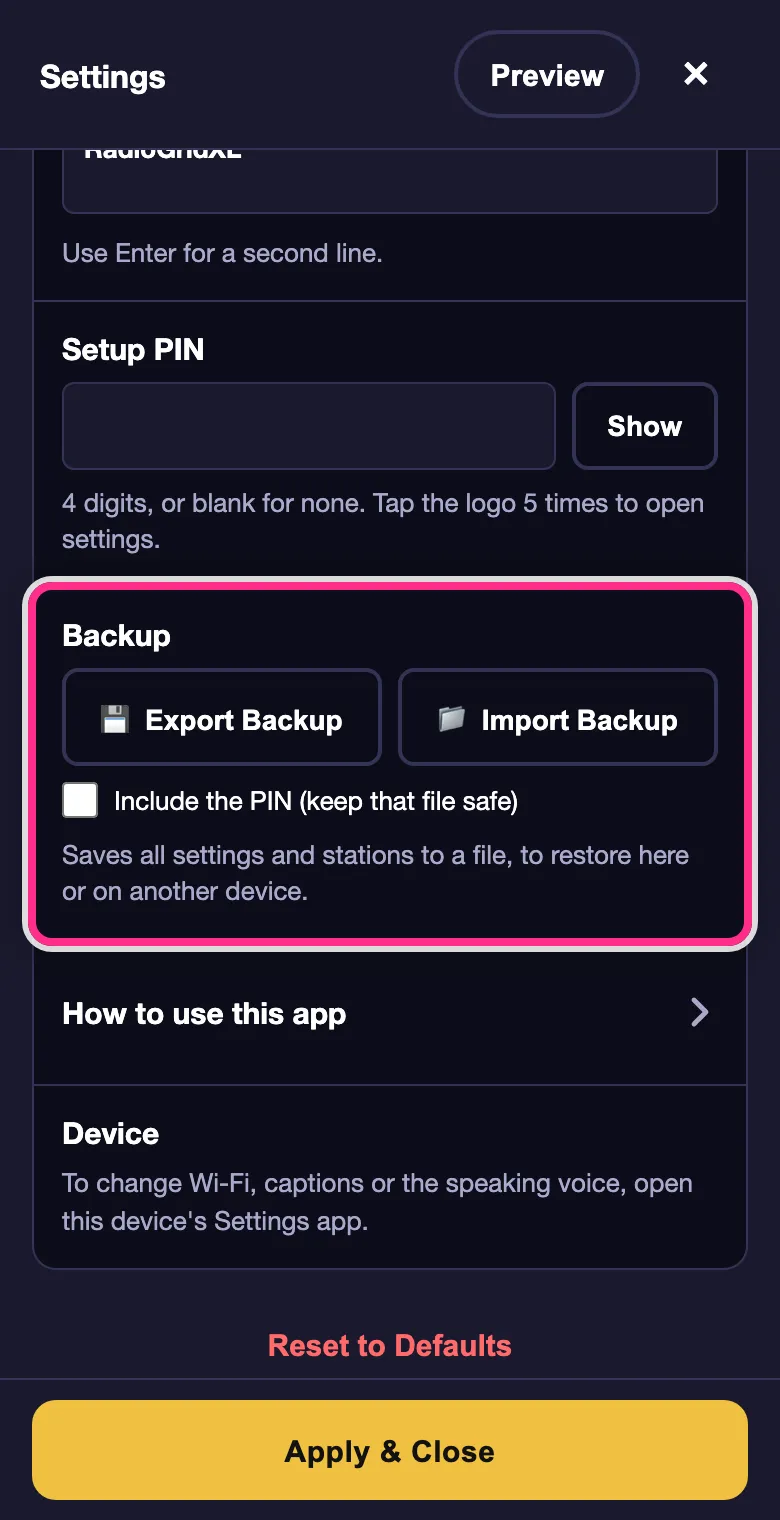
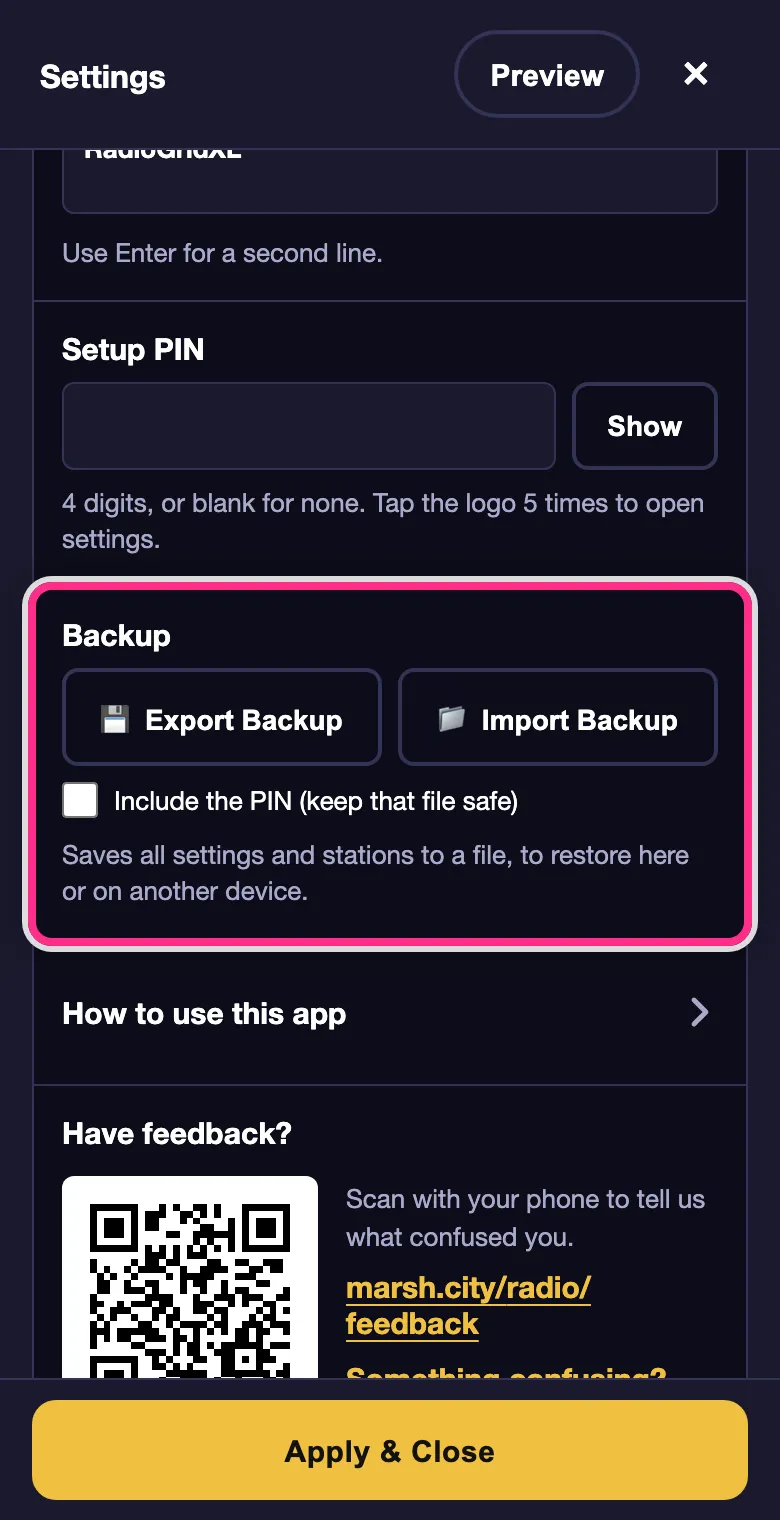
radio: sync RadioGridXL v7.18.0 (222d550)

Changed region(s): [[0.0615, 0.7421, 0.8923, 0.9276], [0.6769, 0.8967, 0.8615, 0.9276]]

diff --git a/public/radio/index.html b/public/radio/index.html
@@ -1675,6 +1675,23 @@ html.is-desktop .overlay-body { font-size: 20px; }
   cursor: pointer;
 }
 .s-link-row .s-icon { color: var(--settings-label); }
+
+/* Feedback card. The QR keeps its own black-on-white in every theme (fills
+   set in the SVG, no theme rule touches it): phone cameras misread
+   light-on-dark codes. */
+.feedback-row { display: flex; gap: 14px; align-items: center; flex-wrap: wrap; }
+.feedback-qr { width: 128px; height: 128px; flex-shrink: 0; border-radius: 6px; }
+.feedback-text { flex: 1 1 130px; min-width: 0; display: flex; flex-direction: column; gap: 2px; }
+.feedback-link {
+  display: flex;
+  align-items: center;
+  min-height: 44px;
+  color: var(--accent-text);
+  font-size: 15px;
+  font-weight: 700;
+  text-decoration: underline;
+  text-underline-offset: 3px;
+}
 .backup-row { display: flex; gap: 8px; margin-bottom: 8px; }
 .backup-row .device-btn { flex: 1; min-height: 48px; }
 
@@ -2925,6 +2942,21 @@ html.theme-fading, html.theme-fading * {
           <button class="s-link-row" id="help-btn" onclick="openHelp()"><span>How to use this app</span><svg class="s-icon" viewBox="0 0 18 18" aria-hidden="true"><path d="M6 3l6 6-6 6"></path></svg></button>
         </div>
 
+        <!-- Shown only when the profile turns it on (PROFILE.feedback). The code
+             opens a static page on the setter-up's own phone, since this device
+             often can't send email. The app itself sends nothing. -->
+        <div class="s-section" id="feedback-section" role="group" aria-labelledby="feedback-title" hidden>
+          <div class="s-section-title" id="feedback-title">Have feedback?</div>
+          <div class="feedback-row">
+            <!-- === FEEDBACK QR — make-feedback-qr.mjs writes this === --><svg class="feedback-qr" id="feedback-qr" viewBox="0 0 37 37" role="img" aria-label="QR code: opens marsh.city/radio/feedback on your phone" shape-rendering="crispEdges"><rect width="37" height="37" fill="#ffffff"/><path fill="#000000" d="M4 4h7v1h-7zM14 4h1v1h-1zM16 4h1v1h-1zM19 4h2v1h-2zM22 4h1v1h-1zM26 4h7v1h-7zM4 5h1v1h-1zM10 5h1v1h-1zM12 5h3v1h-3zM17 5h2v1h-2zM20 5h1v1h-1zM22 5h1v1h-1zM26 5h1v1h-1zM32 5h1v1h-1zM4 6h1v1h-1zM6 6h3v1h-3zM10 6h1v1h-1zM12 6h2v1h-2zM17 6h1v1h-1zM19 6h1v1h-1zM24 6h1v1h-1zM26 6h1v1h-1zM28 6h3v1h-3zM32 6h1v1h-1zM4 7h1v1h-1zM6 7h3v1h-3zM10 7h1v1h-1zM12 7h2v1h-2zM20 7h2v1h-2zM24 7h1v1h-1zM26 7h1v1h-1zM28 7h3v1h-3zM32 7h1v1h-1zM4 8h1v1h-1zM6 8h3v1h-3zM10 8h1v1h-1zM15 8h2v1h-2zM19 8h6v1h-6zM26 8h1v1h-1zM28 8h3v1h-3zM32 8h1v1h-1zM4 9h1v1h-1zM10 9h1v1h-1zM19 9h1v1h-1zM21 9h1v1h-1zM24 9h1v1h-1zM26 9h1v1h-1zM32 9h1v1h-1zM4 10h7v1h-7zM12 10h1v1h-1zM14 10h1v1h-1zM16 10h1v1h-1zM18 10h1v1h-1zM20 10h1v1h-1zM22 10h1v1h-1zM24 10h1v1h-1zM26 10h7v1h-7zM12 11h3v1h-3zM16 11h1v1h-1zM18 11h3v1h-3zM4 12h1v1h-1zM10 12h1v1h-1zM12 12h2v1h-2zM15 12h2v1h-2zM21 12h2v1h-2zM25 12h2v1h-2zM29 12h3v1h-3zM4 13h1v1h-1zM6 13h1v1h-1zM9 13h1v1h-1zM11 13h4v1h-4zM17 13h1v1h-1zM20 13h4v1h-4zM27 13h2v1h-2zM30 13h2v1h-2zM5 14h1v1h-1zM7 14h1v1h-1zM10 14h1v1h-1zM15 14h1v1h-1zM17 14h5v1h-5zM25 14h3v1h-3zM5 15h2v1h-2zM9 15h1v1h-1zM12 15h2v1h-2zM17 15h1v1h-1zM19 15h2v1h-2zM23 15h1v1h-1zM28 15h2v1h-2zM5 16h2v1h-2zM9 16h3v1h-3zM13 16h1v1h-1zM17 16h1v1h-1zM20 16h1v1h-1zM23 16h1v1h-1zM25 16h2v1h-2zM32 16h1v1h-1zM4 17h1v1h-1zM12 17h4v1h-4zM19 17h1v1h-1zM22 17h3v1h-3zM26 17h3v1h-3zM31 17h2v1h-2zM4 18h2v1h-2zM8 18h1v1h-1zM10 18h3v1h-3zM14 18h2v1h-2zM19 18h3v1h-3zM24 18h1v1h-1zM26 18h1v1h-1zM29 18h2v1h-2zM4 19h1v1h-1zM7 19h3v1h-3zM13 19h2v1h-2zM16 19h1v1h-1zM19 19h2v1h-2zM22 19h2v1h-2zM28 19h1v1h-1zM30 19h1v1h-1zM32 19h1v1h-1zM5 20h1v1h-1zM7 20h1v1h-1zM10 20h1v1h-1zM13 20h1v1h-1zM15 20h2v1h-2zM21 20h1v1h-1zM23 20h1v1h-1zM27 20h1v1h-1zM29 20h2v1h-2zM4 21h1v1h-1zM6 21h1v1h-1zM11 21h2v1h-2zM15 21h1v1h-1zM17 21h4v1h-4zM22 21h2v1h-2zM26 21h3v1h-3zM30 21h3v1h-3zM4 22h3v1h-3zM8 22h6v1h-6zM16 22h1v1h-1zM19 22h1v1h-1zM21 22h1v1h-1zM23 22h1v1h-1zM25 22h2v1h-2zM28 22h2v1h-2zM32 22h1v1h-1zM4 23h1v1h-1zM6 23h1v1h-1zM8 23h2v1h-2zM12 23h3v1h-3zM16 23h2v1h-2zM19 23h1v1h-1zM25 23h2v1h-2zM28 23h1v1h-1zM4 24h1v1h-1zM10 24h2v1h-2zM16 24h1v1h-1zM18 24h2v1h-2zM21 24h1v1h-1zM23 24h6v1h-6zM30 24h3v1h-3zM12 25h3v1h-3zM16 25h1v1h-1zM18 25h2v1h-2zM22 25h3v1h-3zM28 25h2v1h-2zM4 26h7v1h-7zM13 26h1v1h-1zM15 26h1v1h-1zM19 26h2v1h-2zM23 26h2v1h-2zM26 26h1v1h-1zM28 26h3v1h-3zM4 27h1v1h-1zM10 27h1v1h-1zM13 27h2v1h-2zM16 27h1v1h-1zM18 27h1v1h-1zM23 27h2v1h-2zM28 27h1v1h-1zM32 27h1v1h-1zM4 28h1v1h-1zM6 28h3v1h-3zM10 28h1v1h-1zM15 28h6v1h-6zM23 28h7v1h-7zM31 28h2v1h-2zM4 29h1v1h-1zM6 29h3v1h-3zM10 29h1v1h-1zM14 29h1v1h-1zM17 29h4v1h-4zM22 29h1v1h-1zM25 29h1v1h-1zM29 29h2v1h-2zM32 29h1v1h-1zM4 30h1v1h-1zM6 30h3v1h-3zM10 30h1v1h-1zM13 30h1v1h-1zM15 30h2v1h-2zM18 30h2v1h-2zM23 30h1v1h-1zM25 30h7v1h-7zM4 31h1v1h-1zM10 31h1v1h-1zM13 31h1v1h-1zM18 31h3v1h-3zM22 31h2v1h-2zM27 31h4v1h-4zM32 31h1v1h-1zM4 32h7v1h-7zM12 32h2v1h-2zM16 32h1v1h-1zM18 32h2v1h-2zM21 32h1v1h-1zM23 32h1v1h-1zM27 32h1v1h-1zM30 32h1v1h-1z"/></svg><!-- === END FEEDBACK QR === -->
+            <div class="feedback-text">
+              <div class="s-hint" id="feedback-hint">Scan with your phone to tell us what confused you.</div>
+              <a class="feedback-link" id="feedback-page-link" target="_blank" rel="noopener noreferrer">marsh.city/<wbr>radio/<wbr>feedback</a>
+              <a class="feedback-link" id="feedback-mail-link" href="mailto:radio@marsh.city?subject=RadioGridXL%20feedback">Something confusing? Tell us</a>
+            </div>
+          </div>
+        </div>
+
         <div class="s-section" id="device-section">
           <div class="s-section-title">Device</div>
           <div id="device-buttons">
@@ -2939,7 +2971,7 @@ html.theme-fading, html.theme-fading * {
         </div>
       </div>
       <button id="reset-btn" onclick="confirmReset()">Reset to Defaults</button>
-      <div id="settings-version" aria-hidden="true">RadioGridXL v7.17.0</div>
+      <div id="settings-version" aria-hidden="true">RadioGridXL v7.18.0</div>
     </section>
     </div>
 
@@ -3100,6 +3132,7 @@ const PROFILE = {
   "logoSvg": "<rect class=\"logo-tile logo-r0\" fill=\"#67e8f9\" x=\"28.75\" y=\"28.75\" width=\"9.5\" height=\"9.5\" rx=\"2.6\"/><rect class=\"logo-tile logo-r1\" fill=\"#58c6f8\" x=\"39.75\" y=\"28.75\" width=\"9.5\" height=\"9.5\" rx=\"2.6\"/><rect class=\"logo-tile logo-r2\" fill=\"#4aa4f7\" x=\"50.75\" y=\"28.75\" width=\"9.5\" height=\"9.5\" rx=\"2.6\"/><rect class=\"logo-tile logo-r1\" fill=\"#58c6f8\" x=\"28.75\" y=\"39.75\" width=\"9.5\" height=\"9.5\" rx=\"2.6\"/><rect class=\"logo-tile logo-r4\" fill=\"#5f85f7\" x=\"61.75\" y=\"39.75\" width=\"9.5\" height=\"9.5\" rx=\"2.6\"/><rect class=\"logo-tile logo-r2\" fill=\"#4aa4f7\" x=\"28.75\" y=\"50.75\" width=\"9.5\" height=\"9.5\" rx=\"2.6\"/><rect class=\"logo-tile logo-r3\" fill=\"#3b82f6\" x=\"39.75\" y=\"50.75\" width=\"9.5\" height=\"9.5\" rx=\"2.6\"/><rect class=\"logo-tile logo-r4\" fill=\"#5f85f7\" x=\"50.75\" y=\"50.75\" width=\"9.5\" height=\"9.5\" rx=\"2.6\"/><rect class=\"logo-tile logo-r3\" fill=\"#3b82f6\" x=\"28.75\" y=\"61.75\" width=\"9.5\" height=\"9.5\" rx=\"2.6\"/><rect class=\"logo-tile logo-r6\" fill=\"#a78bfa\" x=\"61.75\" y=\"61.75\" width=\"9.5\" height=\"9.5\" rx=\"2.6\"/><path class=\"logo-wave logo-wave-l\" fill=\"none\" stroke=\"#67e8f9\" stroke-width=\"5.5\" stroke-linecap=\"round\" d=\"M 17.92,33.66 A 36,36 0 0 0 17.92,66.34\"/><path class=\"logo-wave logo-wave-r\" fill=\"none\" stroke=\"#a78bfa\" stroke-width=\"5.5\" stroke-linecap=\"round\" d=\"M 82.08,33.66 A 36,36 0 0 1 82.08,66.34\"/><path class=\"logo-wave logo-wave-l logo-wave-out\" fill=\"none\" stroke=\"#67e8f9\" stroke-width=\"5.5\" stroke-linecap=\"round\" opacity=\"0.65\" d=\"M 8.12,28.66 A 47,47 0 0 0 8.12,71.34\"/><path class=\"logo-wave logo-wave-r logo-wave-out\" fill=\"none\" stroke=\"#a78bfa\" stroke-width=\"5.5\" stroke-linecap=\"round\" opacity=\"0.65\" d=\"M 91.88,28.66 A 47,47 0 0 1 91.88,71.34\"/>",
   "logoViewBox": "0 0 100 100",
   "helpUrl": "https://marsh.city/embed/guides/radiogridxl/",
+  "feedback": true,
   "streams": [
     {
       "id": "s1",
@@ -3268,6 +3301,7 @@ function init() {
   }
 
   document.getElementById('help-section').hidden = !helpAvailable();
+  showFeedbackCard();
   showHapticsAvailability();
 
   // The Device buttons need the APK's bridge (see openDeviceSettings). A
@@ -6569,6 +6603,29 @@ function closeHelp() {
   // even if a link inside it navigated the frame somewhere else.
   document.getElementById('help-body').innerHTML = '';
   document.getElementById('help-btn').focus();
+}
+
+/* ================================================================
+   FEEDBACK CARD
+   A QR code to a static page on marsh.city, for the setter-up's own
+   phone, plus an email link for devices that can send one. Nothing is
+   sent by the app. Hosted builds only, and off unless the profile turns
+   it on (not Lighthouse).
+   ================================================================ */
+
+var FEEDBACK_URL = 'https://marsh.city/radio/feedback/'; // what the QR holds (make-feedback-qr.mjs)
+
+function showFeedbackCard() {
+  // Hosted only, like the guide: the APK's WebView drops https and mailto
+  // links, so on file:// both would be dead taps.
+  var on = PROFILE.feedback === true && /^https?:$/.test(location.protocol);
+  document.getElementById('feedback-section').hidden = !on;
+  if (!on) return;
+  document.getElementById('feedback-page-link').href = FEEDBACK_URL;
+  var version = (document.getElementById('settings-version').textContent.match(/v\d+\.\d+\.\d+/) || [''])[0];
+  var subject = 'RadioGridXL feedback' + (version ? ' (' + version + ')' : '');
+  document.getElementById('feedback-mail-link').href =
+    'mailto:radio@marsh.city?subject=' + encodeURIComponent(subject);
 }
 
 function openStreamBrowser() {

diff --git a/public/radio/feedback/index.html b/public/radio/feedback/index.html
@@ -1,0 +1,62 @@
+<!doctype html>
+<html lang="en">
+<head>
+<meta charset="utf-8">
+<meta name="viewport" content="width=device-width, initial-scale=1">
+<!-- A static page: no scripts, no forms, nothing loaded from anywhere else. -->
+<meta http-equiv="Content-Security-Policy" content="default-src 'none'; style-src 'unsafe-inline'; base-uri 'none'; form-action 'none'">
+<meta name="referrer" content="no-referrer">
+<title>RadioGridXL feedback</title>
+<style>
+  :root {
+    --bg: #ffffff; --text: #1a1a1a; --muted: #4a4a4a;
+    --btn-bg: #1a4178; --btn-text: #ffffff; --rule: #d0d0d0;
+  }
+  @media (prefers-color-scheme: dark) {
+    :root {
+      --bg: #121418; --text: #f2f2f2; --muted: #c4c4c4;
+      --btn-bg: #8fb8ff; --btn-text: #0b1220; --rule: #3a3f48;
+    }
+  }
+  * { box-sizing: border-box; }
+  body {
+    margin: 0; background: var(--bg); color: var(--text);
+    font: 18px/1.5 system-ui, -apple-system, "Segoe UI", Roboto, sans-serif;
+  }
+  main { max-width: 34rem; margin: 0 auto; padding: 32px 16px 48px; }
+  h1 { font-size: 1.75rem; line-height: 1.2; margin: 0 0 12px; }
+  p { margin: 0 0 16px; }
+  .email {
+    display: flex; align-items: center; justify-content: center;
+    min-height: 56px; margin: 24px 0 8px; padding: 12px 20px;
+    border-radius: 12px; background: var(--btn-bg); color: var(--btn-text);
+    font-size: 1.25rem; font-weight: 700; text-decoration: none;
+  }
+  .email:focus-visible { outline: 3px solid var(--text); outline-offset: 3px; }
+  .address { text-align: center; color: var(--muted); }
+  h2 { font-size: 1.1rem; margin: 32px 0 8px; padding-top: 24px; border-top: 1px solid var(--rule); }
+  ul { margin: 0 0 16px; padding-left: 1.25rem; }
+  li { margin-bottom: 6px; }
+  .privacy { color: var(--muted); font-size: 1rem; }
+</style>
+</head>
+<body>
+<main>
+  <h1>Thanks for helping make RadioGridXL better</h1>
+  <p>Something confusing, broken or missing? Tell us what happened. A sentence is plenty.</p>
+
+  <a class="email" href="mailto:radio@marsh.city?subject=RadioGridXL%20feedback">Email us</a>
+  <p class="address">radio@marsh.city</p>
+
+  <h2>It helps if you mention</h2>
+  <ul>
+    <li>What you tapped, and what you expected to happen.</li>
+    <li>The version number, at the bottom of the radio's settings.</li>
+    <li>The device, such as "an iPad" or "a Samsung tablet".</li>
+  </ul>
+
+  <h2>Privacy</h2>
+  <p class="privacy">The radio app sends nothing about you or your listening. This page doesn't either. If you email us, your message comes to us, is read only to fix the app, is never posted publicly and is deleted once it's dealt with.</p>
+</main>
+</body>
+</html>

diff --git a/public/radio/sw.js b/public/radio/sw.js
@@ -5,7 +5,7 @@
    it sat at v1 from 7.5.0). Keep it in lockstep with the version-bump routine.
    The server sends sw.js no-cache, so each load refetches this file and the
    install→activate purge cycle kicks in. */
-const CACHE_VERSION = 'rgxl-shell-7.17.0-b9f75d46';
+const CACHE_VERSION = 'rgxl-shell-7.18.0-76946320';
 
 /* Shell assets, relative to the SW scope (the directory it's served from).
    start_url is "." so the HTML is reachable both as "./" and by filename.
@@ -70,6 +70,12 @@ self.addEventListener('fetch', (event) => {
   // Never touch cross-origin requests — radio stream URLs live elsewhere and
   // must always hit the network, never be cached or served stale.
   if (url.origin !== self.location.origin) return;
+
+  // The feedback page (feedback/ beside this worker) is its own static page,
+  // not part of the app: never cache it and never answer it with the app
+  // shell. Offline, it fails like any web page.
+  const feedback = new URL('feedback', self.location).pathname;
+  if (url.pathname === feedback || url.pathname.startsWith(feedback + '/')) return;
 
   // Cache-first for same-origin shell/static assets, falling back to network.
   // Successful same-origin GETs are cached so the app keeps booting offline.

diff --git a/src/content/guides/radiogridxl.md b/src/content/guides/radiogridxl.md
@@ -1,7 +1,7 @@
 ---
 title: How to use RadioGridXL
 description: Open settings, change and add stations, pick a theme, and set it up for someone who just wants to press a button and hear music.
-appVersion: 7.17.0
+appVersion: 7.18.0
 ---
 
 RadioGridXL is built for the person listening: big buttons, one per station, nothing else to figure out. Everything you can change is tucked away in a hidden settings panel, so the listener never lands there by accident.
@@ -163,3 +163,7 @@ RadioGridXL can sit on your home screen like a regular app and open full screen:
 - **Computer (Chrome or Edge):** click the install icon at the right end of the address bar.
 
 On Android and on computers, the installed app keeps the same stations and settings as the browser you installed it from. On iPhone and iPad it starts fresh, so set up your stations in the Home Screen app. If you already set them up in Safari, [Backup and restore](#backup-and-restore) moves them across.
+
+## Send us feedback
+
+At the bottom of settings, **Have feedback?** shows a code you can scan with your phone's camera. It opens a short page with an **Email us** button, so you can tell us what was confusing from your own phone, even when the radio's device can't send email. The radio itself never sends anything about you or your listening.

diff --git a/src/content/projects/radiogridxl.md b/src/content/projects/radiogridxl.md
@@ -6,7 +6,7 @@ repo: https://github.com/Minimalistic/RadioGridXL
 url: https://marsh.city/radio/
 tags: [vanilla-js, accessibility, html5, pwa, kiosk]
 started: 2026-03-01
-updated: 2026-11-05
+updated: 2026-11-06
 image: /images/radiogridxl/page/grid.webp
 imageAlt: RadioGridXL — two large station buttons filling a dark screen
 hideTagline: true
@@ -82,6 +82,9 @@ flowchart TD
 </div>
 
 ## Updates
+
+### 2026-11-06
+Released v7.18.0. Settings now has a "Have feedback?" card with a code you scan with your phone. It opens a short page with an Email us button, so whoever set up a radio can tell me what confused them, even when the radio's own device can't send email.
 
 ### 2026-11-05
 Released v7.17.0, a reorganised settings panel: four groups (Stations, Look, Sound and controls, Setup), one tappable row per station, switches for voice and tones, theme swatches that look like station buttons, and an Apply button pinned to the bottom. Every saved setup loads exactly as before. Pausing live radio now lets go of the stream and resuming reconnects at the live point, which fixes stations getting stuck on iPhone after a quick pause and play.
